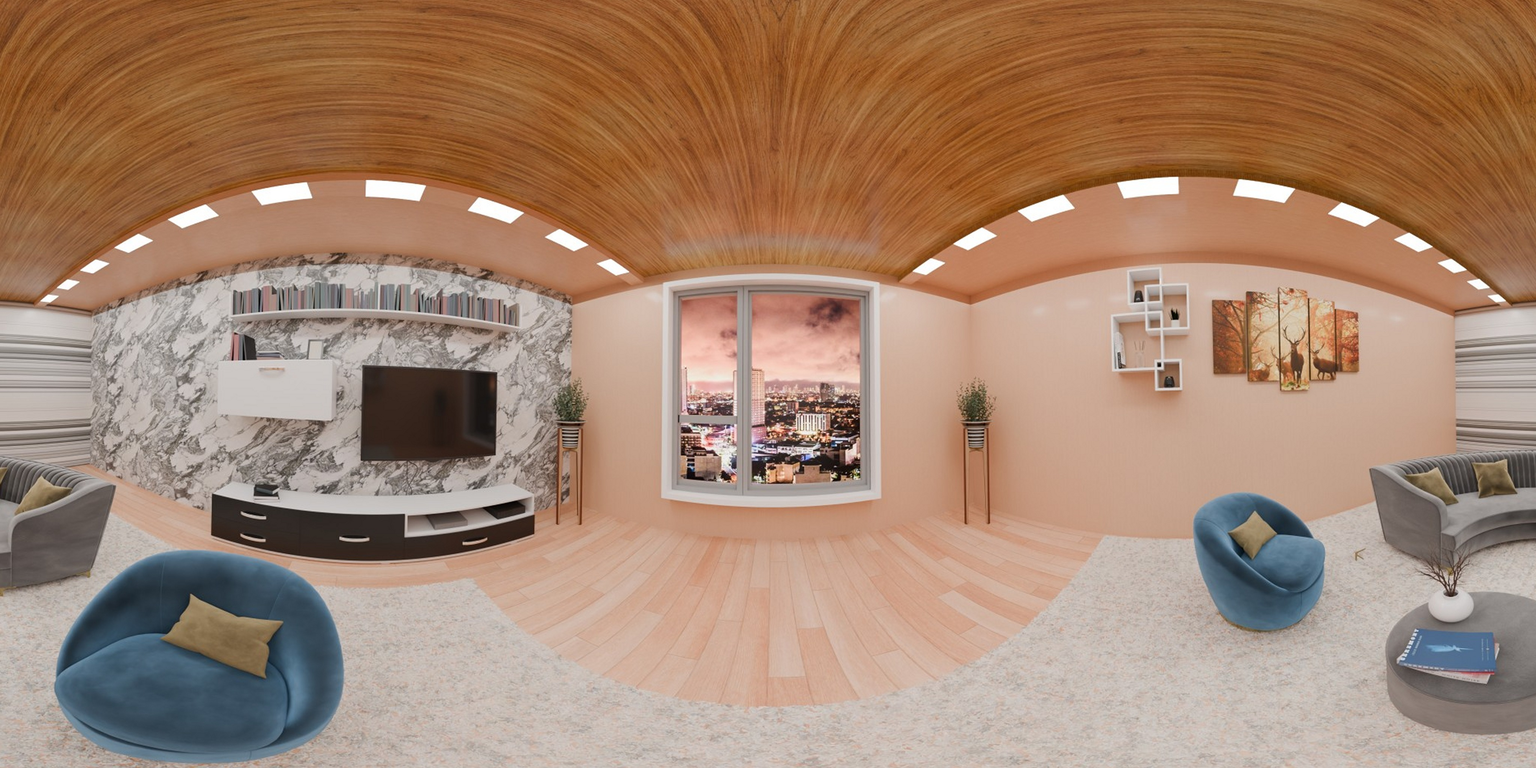
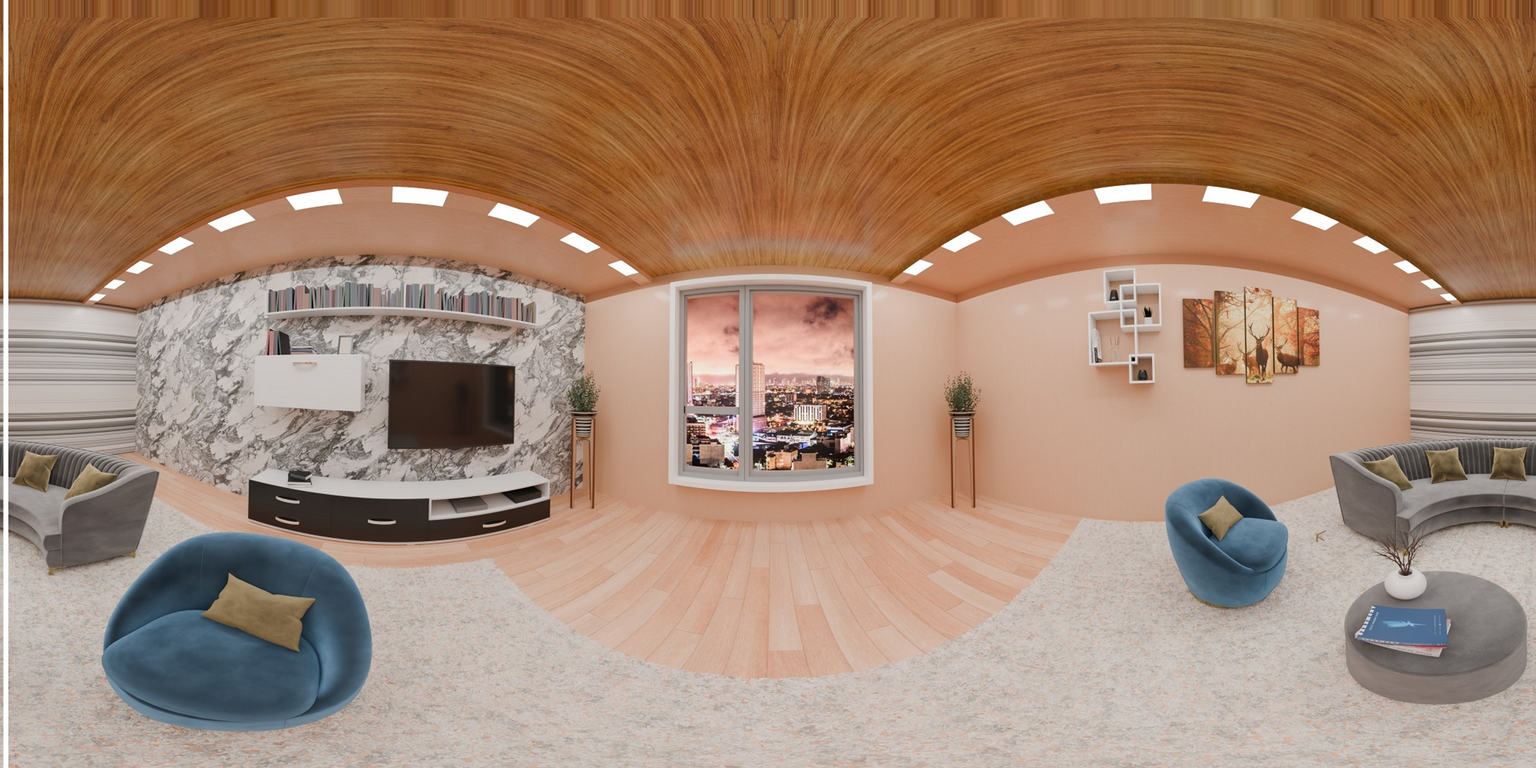
Stop scaling the room: it was bending every straight line
The client drew a line along the ceiling and it sagged in the middle. That was
my doing, and it is not a bug that can be tuned out - it is what scaling an
equirectangular image does.

A panorama can be ROTATED. Rotation is a real transformation of the sphere and
every straight line in the room survives it. Scaling stretches longitude and
latitude linearly, which is not a camera move and not any other rigid
transformation, so lines bow. A straight horizontal line at elevation p0
renders straight only when

    z * sin(2*p0) = sin(2*p0 / z)

which is true only at z = 1. At the x1.280 the wooden room was using, with a
cornice 20 degrees above eye level, the curvature came out 59% too strong -
easily enough to see, and exactly what was reported.

scene_fit now defaults to none. The other modes still exist but all of them
bend the room, and are only worth using as a stopgap at small factors.

The consequence is that the window's angular size has to be right in the
render, because it is the one thing that cannot be corrected afterwards. That
is purely a matter of camera distance: the supplied room's window is 47.7
degrees, wooden needs 37.3, so it wants re-rendering from 1.31x the distance -
about 3.9 m rather than 3 m. Vertical needs 56.1 and so wants 0.83x, about
2.5 m. One room cannot serve both.

Until then both variants are rotation-only: lines straight, but the wooden
blind covers 73% of the window's width rather than filling it.

diff --git a/README.md b/README.md
@@ -313,23 +313,45 @@ the **default** state and accept that Outside overhangs.
 
 The typed width and height, incidentally, do **not** change the model at all.
 
-### When the window is the wrong shape
+### Do not scale the room
 
-A uniform scale cannot match a window whose proportions differ from the
-reference. The supplied room is 0.97 wide-to-tall where the vertical reference
-is 1.17, which leaves a choice:
+**A panorama can be rotated. It cannot be zoomed.**
 
-| `scene_fit` | Window | Result |
-|---|---|---|
-| width | 56.1 x 57.6 | matches the reference width, but 4.8 deg of glass shows below the blind |
-| **uniform** | 51.1 x 52.5 | blind covers the whole window, overhanging 1.7 deg each side |
-| height | 46.5 x 47.8 | blind overhangs 4.0 deg each side |
+Rotating an equirectangular image is a real rotation of the sphere, so every
+straight line in the room stays straight. Scaling one stretches longitude and
+latitude linearly, which is not a camera move and not any other rigid
+transformation - so straight lines come out bowed.
 
-`vertical-premium` uses **uniform** for that reason; `wooden-premium` uses the
-default `width`, because that room's window is close to wooden's reference
-shape and width-matching reproduces it exactly.
+The maths is unforgiving. A straight horizontal line at elevation `p0` renders
+straight only when
 
-### Every product needs its own reference
+    z * sin(2*p0) = sin(2*p0 / z)
+
+which holds only at `z = 1`. At `z = 1.28`, with a cornice 20 degrees above eye
+level, the curvature comes out **59% too strong**. The client spotted it
+immediately: a ceiling line that sagged in the middle.
+
+So `scene_fit` defaults to **none**. `width`, `height` and `uniform` still
+exist, but every one of them bends the room, and the bend grows with the
+distance from 1 and with how far the line sits from eye level. Use them only as
+a stopgap, and only at small factors.
+
+### Which means the window's size has to be right in the render
+
+It is the one thing that cannot be corrected afterwards. The window must
+already subtend the right angle, which is a matter of how far the camera stands
+from it:
+
+    distance = (window width / 2) / tan(target angle / 2)
+
+The supplied room's window is 47.7 degrees. Wooden needs 37.3, so that room
+would have to be re-rendered from **1.31x the distance** - about 3.9 m instead
+of 3 m. Vertical needs 56.1, so the opposite: **0.83x**, about 2.5 m.
+
+One room cannot suit both. Either the client renders one per product, or picks
+a distance that suits the product it is for.
+
+### Every product needs its own reference### Every product needs its own reference
 
 The blinds are not the same size, so the windows built around them are not
 either:
